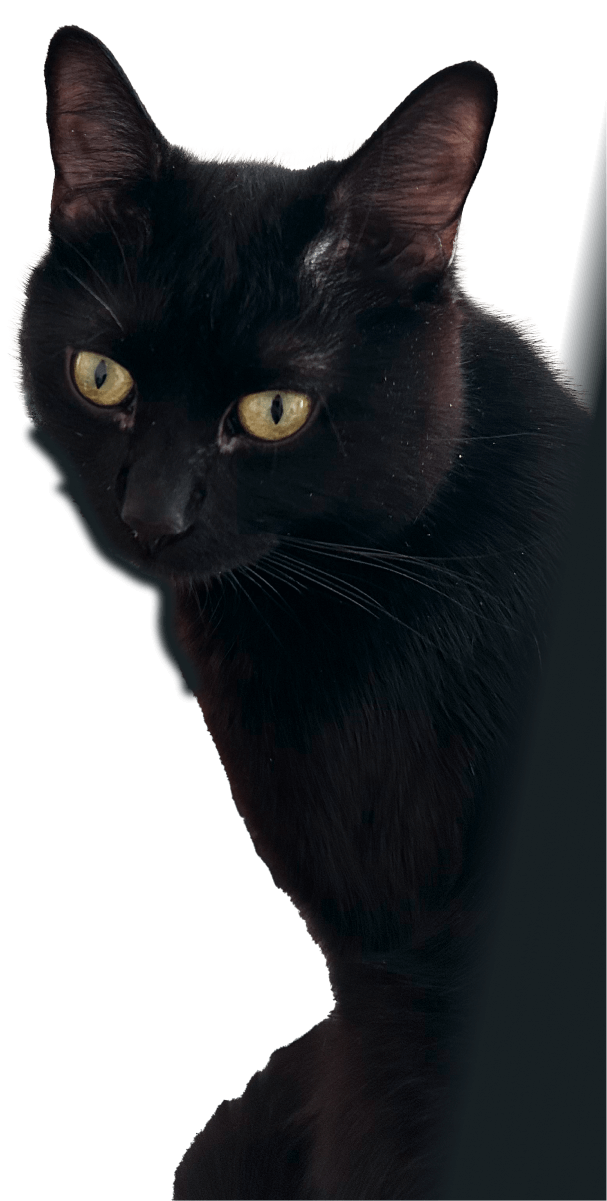
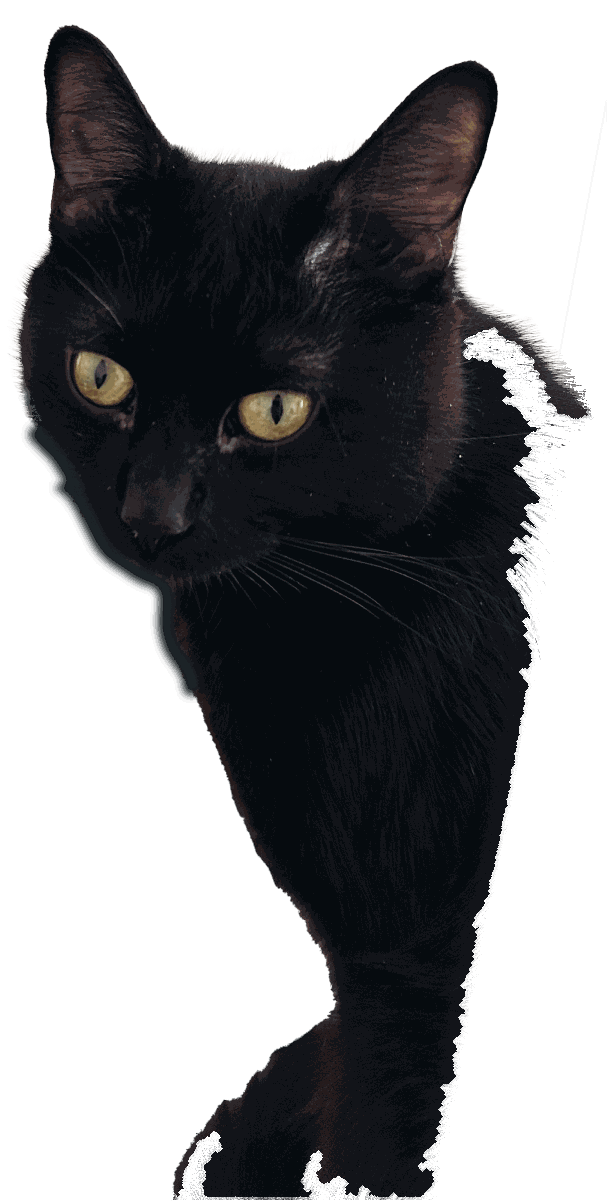
Микросервисы: истории сведены с оригиналом, белая рамка у отзывов, чистый кот
- stories: ширина карточки — константа 380px (как `.t1196__item{width:380px}`
  на оригинале), а не 26.39vw: доля окна совпадала с оригиналом ровно на 1440px,
  на любой другой ширине карточка сжималась, заголовок переносился на 4 строки
  вместо 3 и светлые плашки расходились по высоте. То же на ≤960px.
- stories: у карточки появился свой фон (--bg-secondary) и радиус 30px —
  скруглённые нижние углы светлой плашки открывали фон страницы, и стык
  читался как щель с квадратными углами.
- reviews: скриншот утоплен в белую карточку рамкой 12px сверху/по бокам
  со скруглением 16px — на оригинале это `clip-path: inset(12px 12px 0 round
  16px 16px 0 0)` на .t1196__bgimg (вычитано из document.styleSheets).
- mascot: из kotkins.png и kotkins_small.png убран залитый старым фоном
  (#182023) клин слева — на текущем фоне страницы (#10171A) он выглядел
  светлым прямоугольным пятном. Заодно файлы стали легче (89→80 КБ, 250→86 КБ).

Changed region(s): [[0.2669, 0.0924, 1.0, 1.0]]

diff --git a/microservices/index.html b/microservices/index.html
@@ -1701,7 +1701,18 @@
      на такую высоту не влияет вообще (проверено: без этой строки высота
      картинки была ровно 1279px на любой ширине, будто aspect-ratio не
      применялся). */
-  .reviews__img { width: 100%; height: auto; aspect-ratio: 9 / 16; object-fit: cover; object-position: top; display: block; }
+  /* Правка (заход 21, п.4): у оригинала скриншот не лежит встык с краями
+     белой карточки — он утоплен в неё белой рамкой. Механизм найден на живой
+     странице: единственное правило с clip-path во всём документе —
+     `#rec2078055861 .t1196__bgimg { clip-path: inset(12px 12px 0px round 16px
+     16px 0px 0px) !important }` (вычитано из document.styleSheets; сам
+     .t1196__bgimg при этом полноразмерный 360×640, поэтому по
+     getBoundingClientRect рамка не видна — clip-path на прямоугольник не
+     влияет, только на отрисовку и хит-тест, что и сбивало прошлые заходы).
+     То есть рамка 12px сверху/слева/справа, снизу 0 (картинка уходит встык
+     к подписи), внутренние верхние углы скруглены на 16px. Переносим
+     один в один: у нас картинка — <img>, clip-path работает на нём так же. */
+  .reviews__img { width: 100%; height: auto; aspect-ratio: 9 / 16; object-fit: cover; object-position: top; display: block; clip-path: inset(12px 12px 0 round 16px 16px 0 0); }
   /* Правка 12 (п.Б): подпись увеличена под оригинал (getComputedStyle на
      .t-card__title внутри .t1196__content-inner, rec2078055861, живая
      страница): padding 30px кругом (было 16/18), font-size 24px/font-weight
@@ -1793,15 +1804,35 @@
      заметно мельче оригинала: карточка/окно у оригинала 380/1440 ≈ 26.4%
      (замерено getBoundingClientRect на rec2081619121), а формула
      «(track-40)/3» гналась за шириной самой дорожки, а не за этим
-     отношением. Карточка теперь считается напрямую как доля окна
-     (26.39vw ≈ 380px при 1440px, отношение из оригинала, не абсолютные
-     пиксели), независимо от того, насколько bled-дорожка шире контейнера —
-     bleed-формула выше по-прежнему только определяет, где обрезается видимая
-     область (сколько видно от 4-й карточки), а не размер карточки. */
-  .stories__grid > .stories__card { flex-basis: 26.39vw; }
+     отношением.
+     Правка (заход 21, п.3 «карточки мельче оригинала и разъехались»):
+     26.39vw было ошибкой в самой природе величины — на живой Tilda ширина
+     карточки не доля окна, а КОНСТАНТА: правило
+     `.t-rec:not(#rec2078055861) .t1196__item { width: 380px !important }`
+     (вычитано из document.styleSheets оригинала), а на ≤480px — 300px.
+     Совпадение с нашими 26.39vw держалось ровно на одной ширине окна
+     (1440px), где 26.39vw и есть 380px; на любом другом мониторе наша
+     карточка «сжималась» вместе с окном, кегль заголовка при этом оставался
+     24px — заголовок переносился уже не на 3 строки, а на 4, светлые плашки
+     карточек получали разную высоту и стык с тёмной частью «разъезжался»
+     (у оригинала все 11 заголовков ровно по 3 строки = 147px, замерено).
+     Фикс — та же константа, что в оригинале: 380px, без привязки к vw.
+     Дорожка по-прежнему уходит за правый край контейнера (bleed выше), так
+     что при узком окне видно меньше карточек целиком, а не более мелкие
+     карточки — ровно как на оригинале. */
+  .stories__grid > .stories__card { flex-basis: 380px; }
+  /* Правка (заход 21, п.1 «зазор на стыке светлой и тёмной части»):
+     у карточки не было своего фона — скруглённые нижние углы светлой плашки
+     открывали фон СТРАНИЦЫ (--bg-h, #10171A), а не карточки, и на фоне
+     тёмной нижней плашки (--bg-secondary, #1E272B) это читалось как щель с
+     квадратными углами. На оригинале у .t1196__item собственный фон
+     rgb(34,40,44) — тот же тон, что и низ карточки, поэтому дуга угла ничего
+     не «прорезает». Радиус там же 30px (не 16px, как наш общий --r-lg;
+     .reviews__card рядом уже вынесен на те же 30px). */
   .stories__card {
     display: flex; flex-direction: column;
-    border-radius: var(--r-lg); overflow: hidden; border: 1px solid rgba(16,23,26,.1);
+    background: var(--bg-secondary);
+    border-radius: 30px; overflow: hidden; border: 1px solid rgba(16,23,26,.1);
     transition: border-color .3s var(--ease), transform .3s var(--ease);
   }
   .stories__card:hover { border-color: rgba(16,23,26,.24); transform: translateY(-3px); }
@@ -1825,7 +1856,7 @@
      уже даёт скругление у .stories__bottom-section через overflow:hidden,
      верх .stories__top-section скругляется тем же способом; не хватало только
      её собственного нижнего radius. */
-  .stories__top-section { display: flex; flex-direction: column; gap: 14px; padding: 30px 30px 24px; background: var(--light-bg); border-radius: 0 0 var(--r-lg) var(--r-lg); }
+  .stories__top-section { display: flex; flex-direction: column; gap: 14px; padding: 30px 30px 24px; background: var(--light-bg); border-radius: 0 0 30px 30px; }
   /* .stories__card целиком наследует --focus: var(--light-ink) (RESET, тёмный
      цвет для фокус-кольца на светлых островках) — но кнопка «Читать историю»
      теперь на тёмной нижней плашке, тёмное кольцо там было бы невидимо.
@@ -1940,7 +1971,13 @@
        (см. правку п.2б), на ≤960px формула карточек другая и не отмечена
        как проблемная, поэтому trek возвращается в границы контейнера. */
     .stories__grid.carousel__track { margin-right: 0; }
-    .stories__grid > .stories__card { flex-basis: calc((100% - 20px) / 2); }
+    /* Правка (заход 21, п.3): деление контейнера на 2 давало ту же болезнь,
+       что и 26.39vw на десктопе — ширина карточки плавала вместе с окном,
+       заголовок при 24px перескакивал с 3 строк на 4, и светлые плашки
+       соседних карточек расходились по высоте. На оригинале ширина держится
+       константой 380px вплоть до 480px, поэтому здесь та же константа; на
+       ≤640px ниже по-прежнему наша раскладка «одна карточка на всю ширину». */
+    .stories__grid > .stories__card { flex-basis: 380px; }
   }
   @media (max-width: 640px) {
     .author__item { grid-template-columns: 1fr; gap: 10px; }
